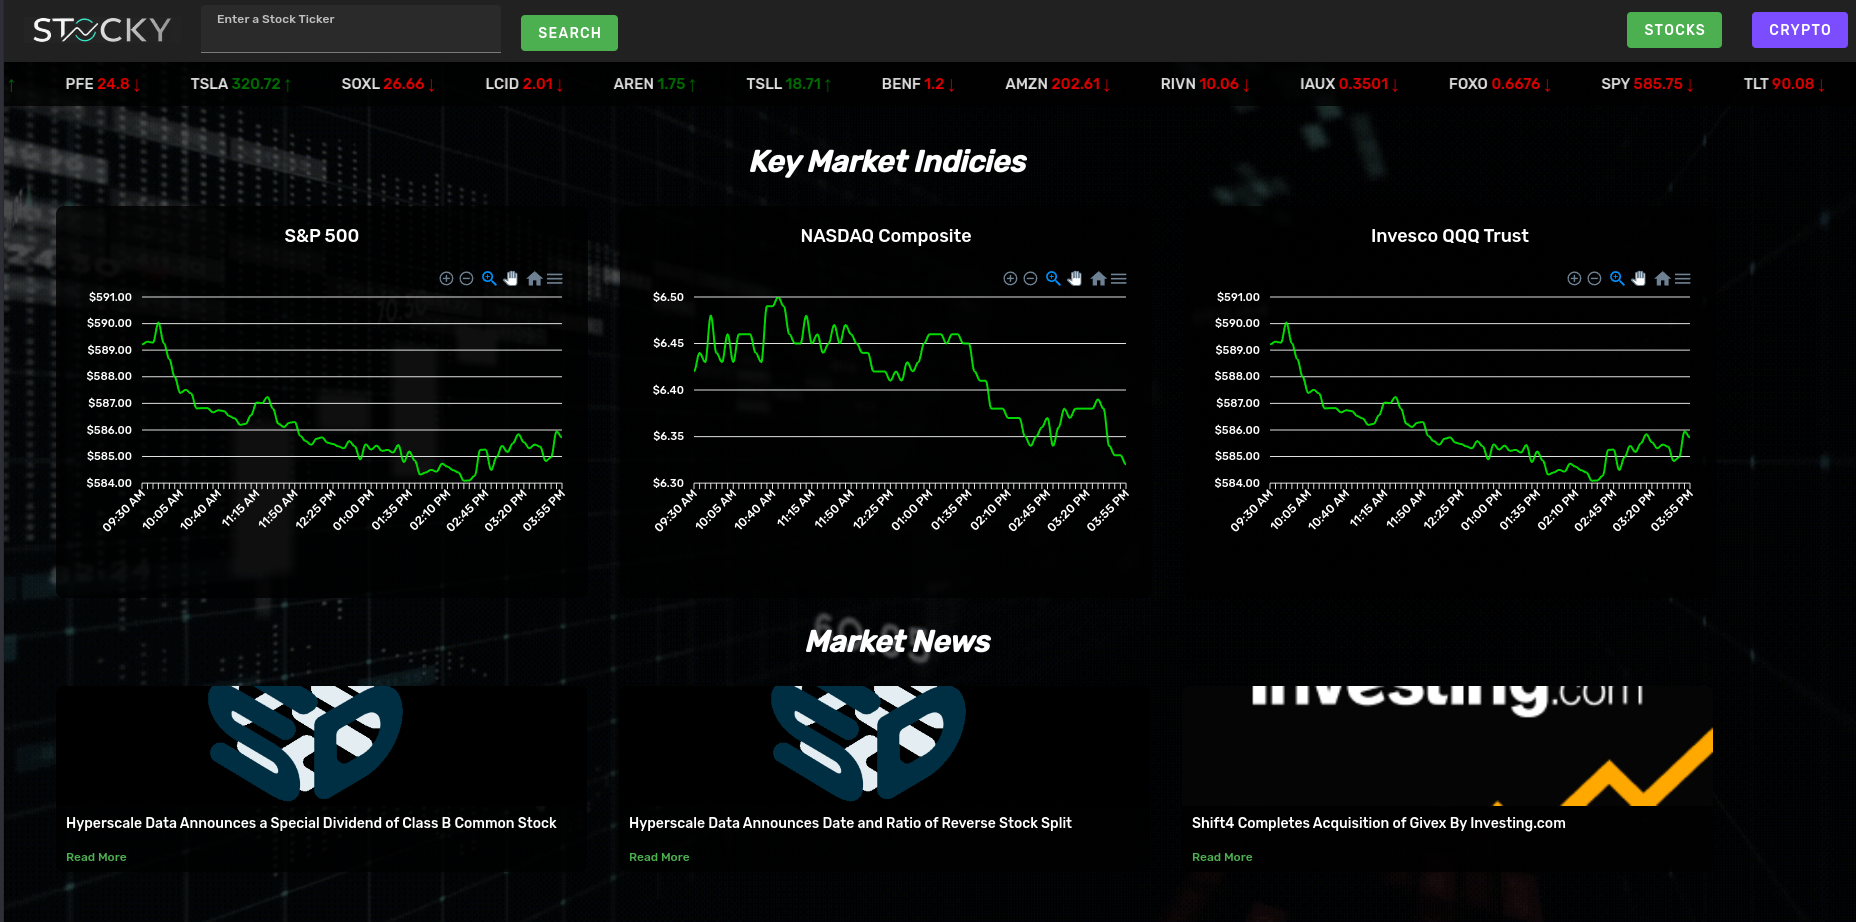
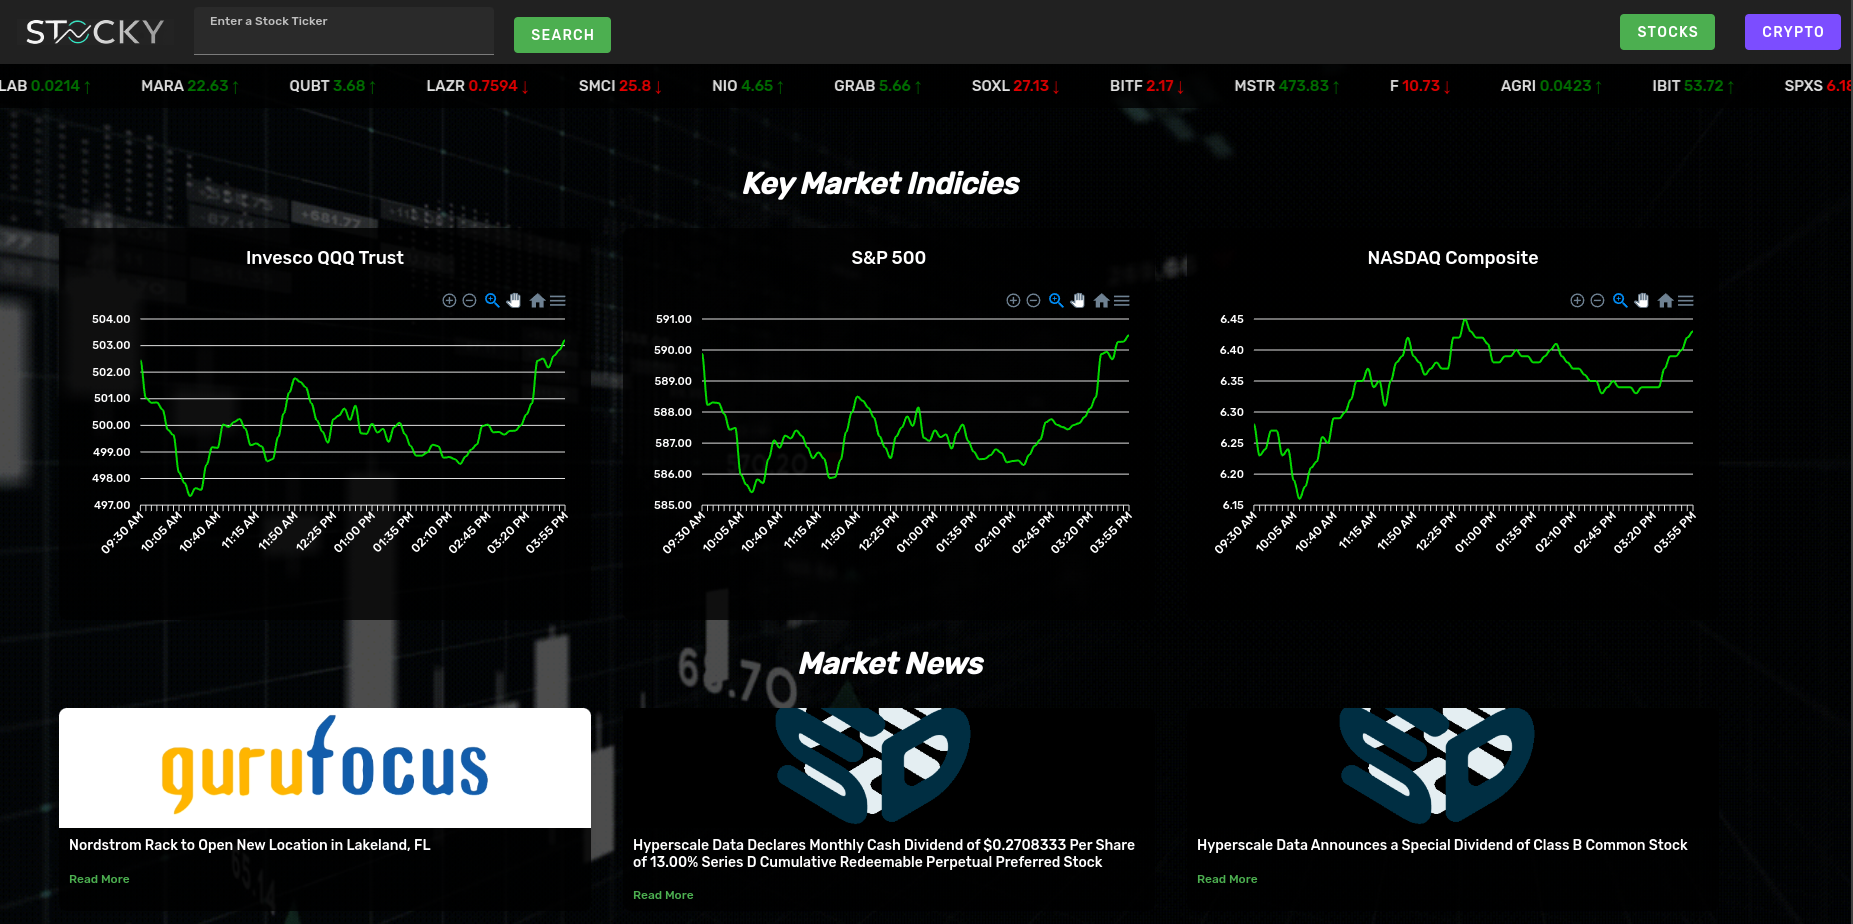
Updated Crtypto Home, and added some error handling.

diff --git a/frontend/src/views/Home.vue b/frontend/src/views/Home.vue
@@ -4,7 +4,7 @@
         <img :src="background" class="background" :key="background">
         <div class="content-wrapper">
             <div v-show =isCharts class="chart_section">
-                <div class="chart_header">Key Market Indicies</div>
+                <div class="chart_header">{{chartCaption}}</div>
                 <div class="chart_container">
                     <div v-for="(chart, index) in chartData" :key="index" class="chart_box">
                         <h3 class="chart_title">{{chart.title}}</h3>
@@ -56,6 +56,7 @@
                 newsData: [],
                 isNews: false,
                 isCharts: false,
+                chartCaption: 'Key Market Indicies',
                 chartOptions: {
                     chart: {
                         type: 'line',
@@ -153,13 +154,14 @@
                 }
             },
             updateBackground() {
-                console.log('TRIGGERED')
                 if (this.$route.path.startsWith('/crypto/')) {
                     document.title = "Stocky | Crypto";
                     this.background = c_background;
+                    this.chartCaption = "Top Cryptocurrencies";
                 } else {
                     document.title = "Stocky | Stocks";
                     this.background = s_background;
+                    this.chartCaption = "Key Market Indicies";
                 }
                 this.getData();
             },
@@ -234,6 +236,7 @@
     padding-left: 20px;
     width: 100%;
     max-width: 100%;
+    align-items: center !important;
 }
 
 .news_header, .chart_header{
@@ -242,7 +245,7 @@
     font-style: italic; 
     font-weight: bold;
     margin-left: auto;
-    margin-top: 0px;
+    margin-top: 20px;
     margin-right: auto;
     padding-bottom: 20px;
     max-width: fit-content;
@@ -250,7 +253,7 @@
 
 .chart_container, .news_container {
     display: flex;
-    justify-content: flex-start;
+    justify-content: center;
     margin-left: auto;
     margin-right: auto;
     flex-direction: row;
@@ -263,8 +266,9 @@
     background: rgba(0, 0, 0, 0.8);
     border-radius: 8px;
     box-shadow: 0 4px 6px rgba(0, 0, 0, 0.1);
-    width: 531px;
+    width: 532px;
     flex-direction: column;
+    margin: 0; 
 }
 
 .news_title {

diff --git a/backend/stocky.py b/backend/stocky.py
@@ -159,79 +159,120 @@ def refreshGraph(source ,ticker, interval):
 @app.route('/homepage/<string:source>/')
 def homePage(source):
     retDat = {'news': [], 'data': []}
+    options=['close', 'high', 'low', 'open']
+    chartData = []
+    newsData = []
     if source in ('stocks', 'Stocks'):
         news_Key = os.getenv('NEWSST')
         news_URL  = f'https://api.marketaux.com/v1/news/all?must_have_entities=true&industries=Financial&countries=US&api_token={news_Key}'
         try:
             newsData  = rq.get(news_URL).json()['data']
         except:
-            newsData = []
-        options=['close', 'high', 'low', 'open']
-        qqq = list(reversed(td.time_series(
-            symbol="QQQ",
-            interval="5min",
-            outputsize=78
-        ).as_json()))
-        spy = list(reversed(td.time_series(
-            symbol="SPY",
-            interval="5min",
-            outputsize=78
-        ).as_json()))
-        comp = list(reversed(td.time_series(
-            symbol="COMP",
-            interval="5min",
-            outputsize=78
-        ).as_json()))
+            pass
+        try:
+            chartData.append({
+                'Title':'Invesco QQQ Trust', 
+                'Data': 
+                    list(reversed(td.time_series(
+                        symbol="QQQ",
+                        interval="5min",
+                        outputsize=78
+                    ).as_json()))
+            })
+        except:
+            pass
+        try:
+            chartData.append({
+                'Title':'S&P 500', 
+                'Data': 
+                    list(reversed(td.time_series(
+                        symbol="SPY",
+                        interval="5min",
+                        outputsize=78
+                    ).as_json()))
+            })
+        except:
+            pass
+        try:
+            chartData.append({
+                'Title':'NASDAQ Composite', 
+                'Data': 
+                    list(reversed(td.time_series(
+                        symbol="COMP",
+                        interval="5min",
+                        outputsize=78
+                    ).as_json()))
+            })
+        except:
+            pass
+        '''
         chartData = [
             {'Title':'Invesco QQQ Trust', 'Data': qqq,  'Fill': '#04ff00' if qqq[0]['close'] < qqq[-1]['close']   else '#ff0008'},
             {'Title':'S&P 500',           'Data': spy,  'Fill': '#04ff00' if spy[0]['close'] < spy[-1]['close']   else '#ff0008'},
             {'Title':'NASDAQ Composite',  'Data': comp, 'Fill': '#04ff00' if comp[0]['close'] < comp[-1]['close'] else '#ff0008'}
         ]
-        for dataset in chartData:
-            for each in dataset['Data']:
-                each['datetime'] = datetime.strptime(each['datetime'], '%Y-%m-%d %H:%M:%S').strftime('%I:%M %p')
-                for op in options:
-                    each[op] = "{:.2f}".format(float(each[op]))
-        retDat['news'] = newsData
-        retDat['data'] = chartData
-    retDat = {'news': [], 'data': []}
+        '''
     if source in ('crypto', 'Crypto'):
-        
-        #news_Key = os.getenv('NEWSST')
-        #news_URL  = f'https://api.marketaux.com/v1/news/all?must_have_entities=true&industries=Financial&countries=US&api_token={news_Key}'
-        #try:
-            #newsData  = rq.get(news_URL).json()['data']
-        #except:
-        newsData = []
-        options=['close', 'high', 'low', 'open']
-        btc = list(reversed(td.time_series(
-            symbol="BTC/USD",
-            exchange="Huobi",
-            interval="5min",
-            outputsize=78
-        ).as_json()))
-        eth = list(reversed(td.time_series(
-            symbol="ETH/USD",
-            exchange="Huobi",
-            interval="5min",
-            outputsize=78
-        ).as_json()))
-        sol = list(reversed(td.time_series(
-            symbol="SOL/USD",
-            exchange="Huobi",
-            interval="5min",
-            outputsize=78
-        ).as_json()))
+        news_Key = os.getenv('CRPNWS')
+        news_URL  = f"https://gnews.io/api/v4/search?q=cryptocurrency&lang=en&country=us&max=3&apikey={news_Key}"
+        try:
+            newsData  = rq.get(news_URL).json()['articles']
+            for each in newsData:
+                each['image_url'] = each.pop('image')
+        except:
+            pass
+        try:
+            chartData.append({
+                'Title':'Bitcoin', 
+                'Data': 
+                    list(reversed(td.time_series(
+                        symbol="BTC/USD",
+                        interval="5min",
+                        outputsize=78
+                    ).as_json()))
+            })
+        except:
+            pass
+        try:
+            chartData.append({
+                'Title':'Ethereum', 
+                'Data': 
+                    list(reversed(td.time_series(
+                        symbol="ETH/USD",
+                        interval="5min",
+                        outputsize=78
+                    ).as_json()))
+            })
+        except:
+            pass
+        try:
+            chartData.append({
+                'Title':'Solana', 
+                'Data': 
+                    list(reversed(td.time_series(
+                        symbol="SOL/USD",
+                        interval="5min",
+                        outputsize=78
+                    ).as_json()))
+            })
+        except:
+            pass
+        '''
         chartData = [
             {'Title':'Bitcoin', 'Data': btc,  'Fill': '#04ff00' if btc[0]['close'] < btc[-1]['close']   else '#ff0008'},
             {'Title':'Ethereum', 'Data': eth,  'Fill': '#04ff00' if eth[0]['close'] < eth[-1]['close']   else '#ff0008'},
             {'Title':'Solana', 'Data': sol, 'Fill': '#04ff00' if sol[0]['close'] < sol[-1]['close'] else '#ff0008'}
         ]
-        for dataset in chartData:
-            for each in dataset['Data']:
-                each['datetime'] = datetime.strptime(each['datetime'], '%Y-%m-%d %H:%M:%S').strftime('%I:%M %p')
-                for op in options:
-                    each[op] = "{:.2f}".format(float(each[op]))
-        retDat['news'] = newsData
-        retDat['data'] = chartData
+        '''
+    for dataset in chartData:
+        if dataset['Data'][0]['close'] < dataset['Data'][-1]['close']:
+            dataset['Fill'] = '#04ff00'
+        else:
+            dataset['Fill'] = '#ff0008'
+        for each in dataset['Data']:
+            each['datetime'] = datetime.strptime(each['datetime'], '%Y-%m-%d %H:%M:%S').strftime('%I:%M %p')
+            for op in options:
+                each[op] = "{:.2f}".format(float(each[op]))
+    retDat['news'] = newsData
+    retDat['data'] = chartData
     return retDat
